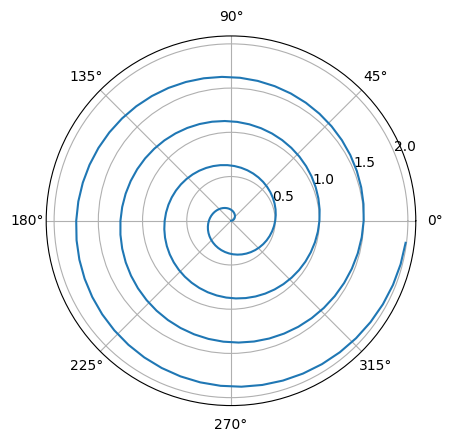
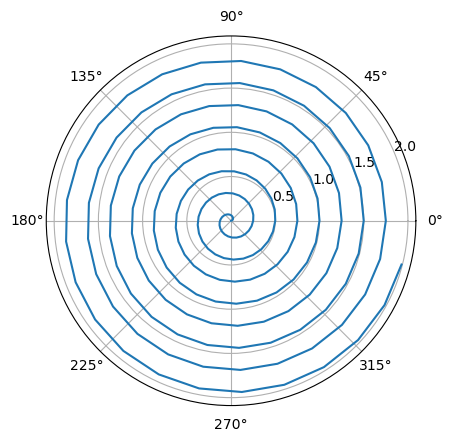
Built site for gh-pages

diff --git a/hello.html b/hello.html
@@ -94,21 +94,21 @@ pre > code.sourceCode > span > a:first-child::before { text-decoration: underlin
 
 </header>
 
-<section id="polar-axis-test-2" class="level2">
-<h2 class="anchored" data-anchor-id="polar-axis-test-2">Polar Axis TEST 2</h2>
+<section id="polar-axis" class="level2">
+<h2 class="anchored" data-anchor-id="polar-axis">Polar Axis</h2>
 <p>For a demonstration of a line plot on a polar axis, see <a href="#fig-polar">Figure&nbsp;1</a>.</p>
-<div class="cell" data-execution_count="1">
+<div class="cell" data-execution_count="2">
 <details>
 <summary>Code</summary>
 <div class="sourceCode cell-code" id="cb1"><pre class="sourceCode python code-with-copy"><code class="sourceCode python"><span id="cb1-1"><a href="#cb1-1" aria-hidden="true" tabindex="-1"></a><span class="im">import</span> numpy <span class="im">as</span> np</span>
 <span id="cb1-2"><a href="#cb1-2" aria-hidden="true" tabindex="-1"></a><span class="im">import</span> matplotlib.pyplot <span class="im">as</span> plt</span>
 <span id="cb1-3"><a href="#cb1-3" aria-hidden="true" tabindex="-1"></a></span>
 <span id="cb1-4"><a href="#cb1-4" aria-hidden="true" tabindex="-1"></a>r <span class="op">=</span> np.arange(<span class="dv">0</span>, <span class="dv">2</span>, <span class="fl">0.01</span>)</span>
-<span id="cb1-5"><a href="#cb1-5" aria-hidden="true" tabindex="-1"></a>theta <span class="op">=</span> <span class="dv">2</span> <span class="op">*</span> np.pi <span class="op">*</span> r</span>
+<span id="cb1-5"><a href="#cb1-5" aria-hidden="true" tabindex="-1"></a>theta <span class="op">=</span> <span class="dv">8</span> <span class="op">*</span> np.pi <span class="op">*</span> r</span>
 <span id="cb1-6"><a href="#cb1-6" aria-hidden="true" tabindex="-1"></a>fig, ax <span class="op">=</span> plt.subplots(</span>
 <span id="cb1-7"><a href="#cb1-7" aria-hidden="true" tabindex="-1"></a>  subplot_kw <span class="op">=</span> {<span class="st">'projection'</span>: <span class="st">'polar'</span>} </span>
 <span id="cb1-8"><a href="#cb1-8" aria-hidden="true" tabindex="-1"></a>)</span>
-<span id="cb1-9"><a href="#cb1-9" aria-hidden="true" tabindex="-1"></a>ax.plot(<span class="dv">4</span> <span class="op">*</span> np.pi <span class="op">*</span> r, r)</span>
+<span id="cb1-9"><a href="#cb1-9" aria-hidden="true" tabindex="-1"></a>ax.plot(theta, r)</span>
 <span id="cb1-10"><a href="#cb1-10" aria-hidden="true" tabindex="-1"></a>ax.set_rticks([<span class="fl">0.5</span>, <span class="dv">1</span>, <span class="fl">1.5</span>, <span class="dv">2</span>])</span>
 <span id="cb1-11"><a href="#cb1-11" aria-hidden="true" tabindex="-1"></a>ax.grid(<span class="va">True</span>)</span>
 <span id="cb1-12"><a href="#cb1-12" aria-hidden="true" tabindex="-1"></a>plt.show()</span></code><button title="Copy to Clipboard" class="code-copy-button"><i class="bi"></i></button></pre></div>

diff --git a/index.html b/index.html
@@ -94,21 +94,21 @@ pre > code.sourceCode > span > a:first-child::before { text-decoration: underlin
 
 </header>
 
-<section id="polar-axis-test-2" class="level2">
-<h2 class="anchored" data-anchor-id="polar-axis-test-2">Polar Axis TEST 2</h2>
+<section id="polar-axis" class="level2">
+<h2 class="anchored" data-anchor-id="polar-axis">Polar Axis</h2>
 <p>For a demonstration of a line plot on a polar axis, see <a href="#fig-polar">Figure&nbsp;1</a>.</p>
-<div class="cell" data-execution_count="1">
+<div class="cell" data-execution_count="2">
 <details>
 <summary>Code</summary>
 <div class="sourceCode cell-code" id="cb1"><pre class="sourceCode python code-with-copy"><code class="sourceCode python"><span id="cb1-1"><a href="#cb1-1" aria-hidden="true" tabindex="-1"></a><span class="im">import</span> numpy <span class="im">as</span> np</span>
 <span id="cb1-2"><a href="#cb1-2" aria-hidden="true" tabindex="-1"></a><span class="im">import</span> matplotlib.pyplot <span class="im">as</span> plt</span>
 <span id="cb1-3"><a href="#cb1-3" aria-hidden="true" tabindex="-1"></a></span>
 <span id="cb1-4"><a href="#cb1-4" aria-hidden="true" tabindex="-1"></a>r <span class="op">=</span> np.arange(<span class="dv">0</span>, <span class="dv">2</span>, <span class="fl">0.01</span>)</span>
-<span id="cb1-5"><a href="#cb1-5" aria-hidden="true" tabindex="-1"></a>theta <span class="op">=</span> <span class="dv">2</span> <span class="op">*</span> np.pi <span class="op">*</span> r</span>
+<span id="cb1-5"><a href="#cb1-5" aria-hidden="true" tabindex="-1"></a>theta <span class="op">=</span> <span class="dv">8</span> <span class="op">*</span> np.pi <span class="op">*</span> r</span>
 <span id="cb1-6"><a href="#cb1-6" aria-hidden="true" tabindex="-1"></a>fig, ax <span class="op">=</span> plt.subplots(</span>
 <span id="cb1-7"><a href="#cb1-7" aria-hidden="true" tabindex="-1"></a>  subplot_kw <span class="op">=</span> {<span class="st">'projection'</span>: <span class="st">'polar'</span>} </span>
 <span id="cb1-8"><a href="#cb1-8" aria-hidden="true" tabindex="-1"></a>)</span>
-<span id="cb1-9"><a href="#cb1-9" aria-hidden="true" tabindex="-1"></a>ax.plot(<span class="dv">4</span> <span class="op">*</span> np.pi <span class="op">*</span> r, r)</span>
+<span id="cb1-9"><a href="#cb1-9" aria-hidden="true" tabindex="-1"></a>ax.plot(theta, r)</span>
 <span id="cb1-10"><a href="#cb1-10" aria-hidden="true" tabindex="-1"></a>ax.set_rticks([<span class="fl">0.5</span>, <span class="dv">1</span>, <span class="fl">1.5</span>, <span class="dv">2</span>])</span>
 <span id="cb1-11"><a href="#cb1-11" aria-hidden="true" tabindex="-1"></a>ax.grid(<span class="va">True</span>)</span>
 <span id="cb1-12"><a href="#cb1-12" aria-hidden="true" tabindex="-1"></a>plt.show()</span></code><button title="Copy to Clipboard" class="code-copy-button"><i class="bi"></i></button></pre></div>
